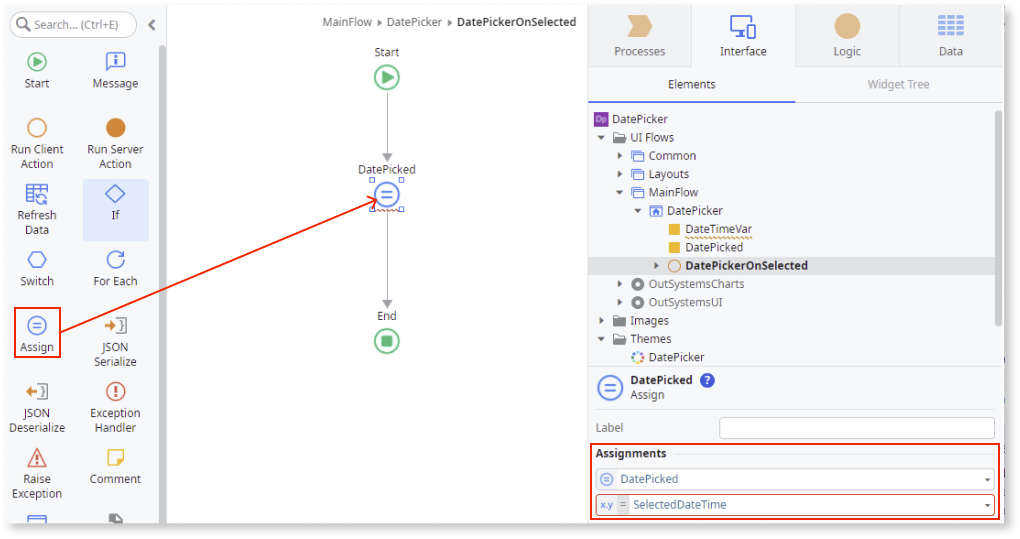
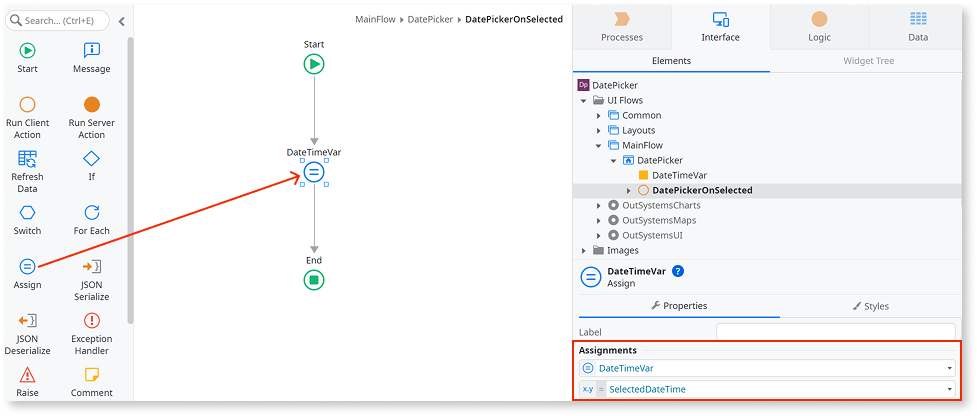
RDTKF-19548 remove unnecessary local variable DatePicked from DatePicker instructions

diff --git a/src/building-apps/ui/patterns/mobile/interaction/datepicker.md b/src/building-apps/ui/patterns/mobile/interaction/datepicker.md
@@ -64,25 +64,15 @@ In this example, the user selects a date from the calendar, the date is saved in
 
     ![Creating a new variable for the Date Picker by selecting the Input widget and accessing the Properties tab](images/datepicker-var-ss.png "Creating a New Variable for Date Picker")
 
-1. Enter a name for the variable (in this example **DateTimeVar**) and select **Date Time** as the **Data Type**.
+1. Enter a name for the variable (in this example **DateTimeVar**) and select **Date Time** as the **Data Type**. This variable stores the date selected by the user.
 
     ![Entering a name for the Date Picker variable and selecting Date Time as the data type](images/datepicker-varname-ss.png "Naming the Date Picker Variable")
-
-1. Right-click your main screen and add another local variable.
-
-    This variable stores the date selected by the user.
-
-    ![Adding another local variable for storing the date selected by the user in the Date Picker](images/datepicker-localvar-ss.png "Adding Another Local Variable for Date Picker")
-
-1. Enter a name for the variable (in this example **DatePicked**) and select **Date Time** as the **Data Type**.
-
-    ![Entering a name for the local variable that stores the selected date and choosing Date Time as the data type](images/datepicker-locvarname-ss.png "Naming the Local Variable for Selected Date")
 
 1. To create an **OnSelect** event for the Date Picker, on the **Properties** tab, from the **Handler** dropdown, select New **Client Action**.
 
     ![Creating an OnSelect event for the Date Picker by selecting New Client Action in the Properties tab](images/datepicker-clientaction-ss.png "Creating OnSelect Event for Date Picker")
 
-1. To access the date selected by the user, create an **Assign** and set the **DatePicked** to **SelectedDateTime**.
+1. To access the date selected by the user, create an **Assign** and set the **DateTimeVar** to **SelectedDateTime**.
 
     ![Adding an assign action to set the DatePicked variable to the SelectedDateTime in the Date Picker](images/datepicker-assign-ss.png "Assigning Variable Value in Date Picker")
     
@@ -120,3 +110,4 @@ After following these steps and publishing the module, you can test the pattern 
 |---|---|
 |Initialized: Optional| Event triggered after the Date Picker instance is ready.| 
 |OnSelected: Mandatory| Event triggered each time a date is selected.| 
+
